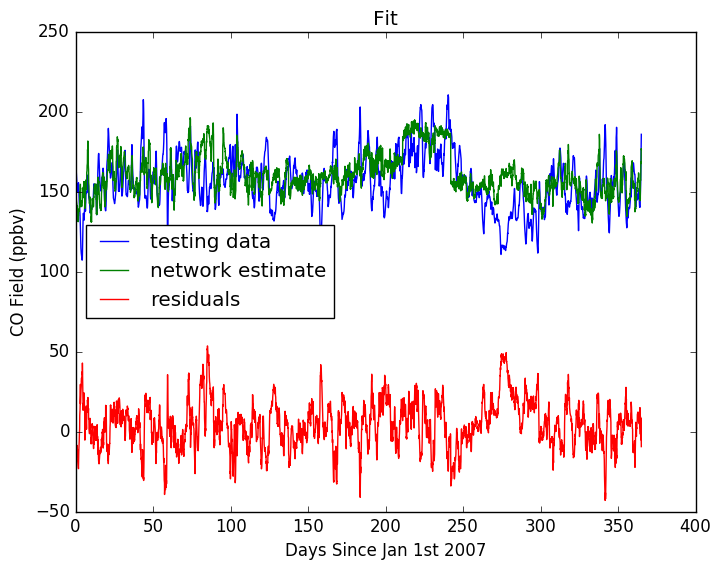
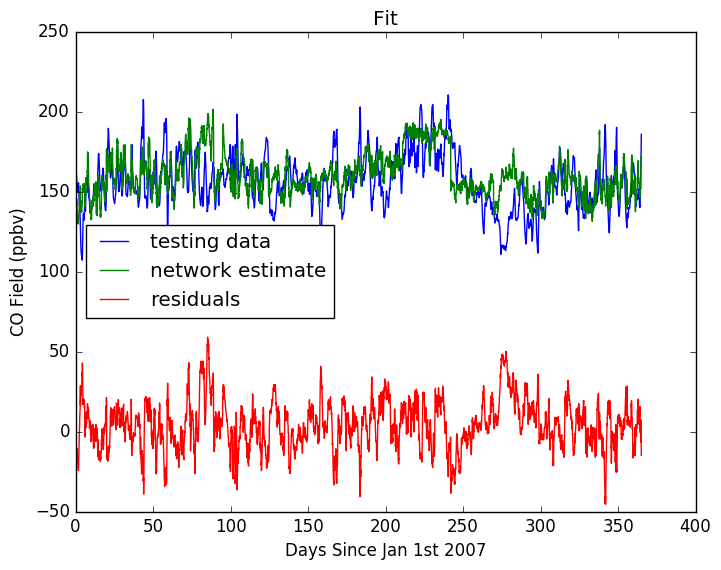
minor update

diff --git a/mainCode/tf.py b/mainCode/tf.py
@@ -53,6 +53,7 @@ def multilayer_perceptron(x, weights, biases):
     layer_1 = tf.nn.relu(layer_1)
     # Output layer with linear activation
     out_layer = tf.matmul(layer_1, weights['out']) + biases['out']
+    out_layer = tf.nn.relu(out_layer)
     return out_layer
 
 # Construct model
@@ -64,7 +65,6 @@ cost = tf.reduce_mean(tf.square(pred - y)) + \
         reg * tf.nn.l2_loss(weights['out'])
 optimizer = tf.train.AdamOptimizer(learning_rate=learning_rate).minimize(cost)
 
-#%%
 # Initializing the variables
 init = tf.initialize_all_variables()
     
@@ -97,7 +97,6 @@ for epoch in range(training_epochs):
         print("Epoch:", '%04d' % (epoch), "cost=", \
             "{:.9f}".format(avg_cost))
 print("Optimization Finished!")
-#%%
 
 predTest = sP[2] * sess.run(pred, feed_dict={x:x_test})
 
@@ -156,40 +155,3 @@ plt.savefig(savename, bbox_inches='tight')
 os.chdir(homeDir)
 
 plt.show()
-
-#%%
-
-
-
-
-
-
-
-
-
-
-
-
-
-
-
-
-
-
-
-
-
-
-
-
-
-
-
-
-
-
-
-
-
-
-
